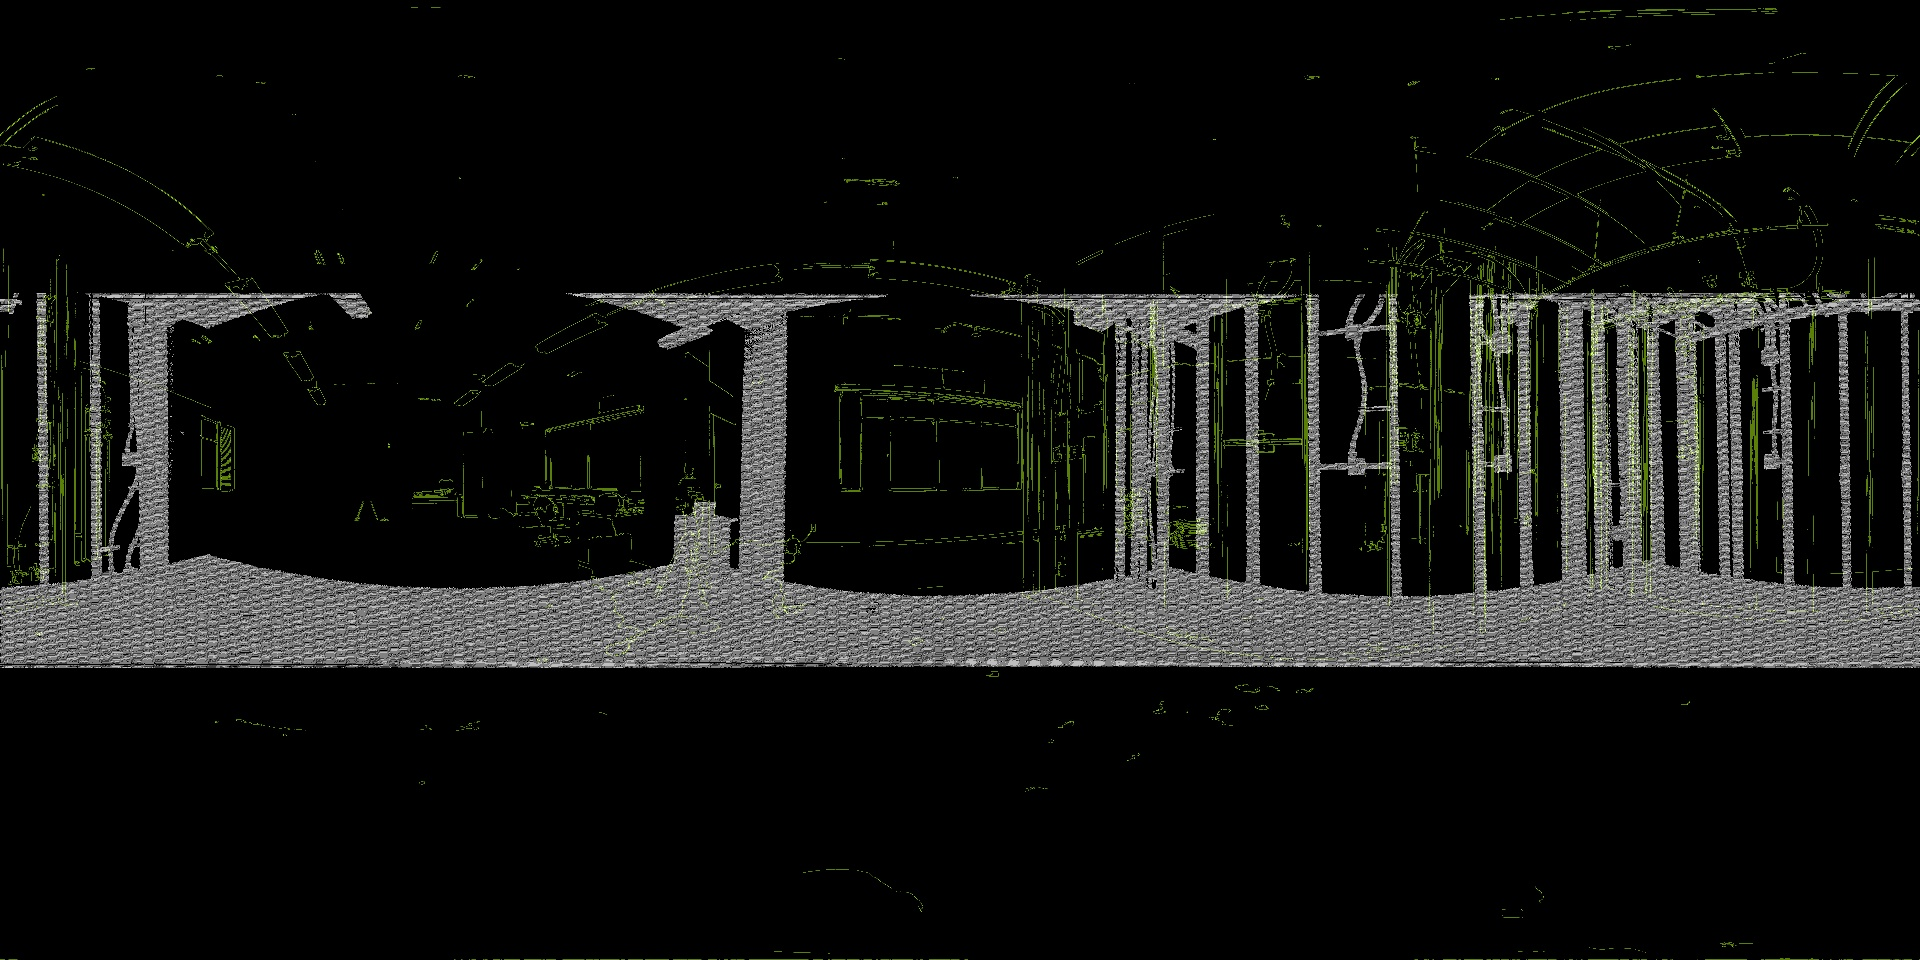
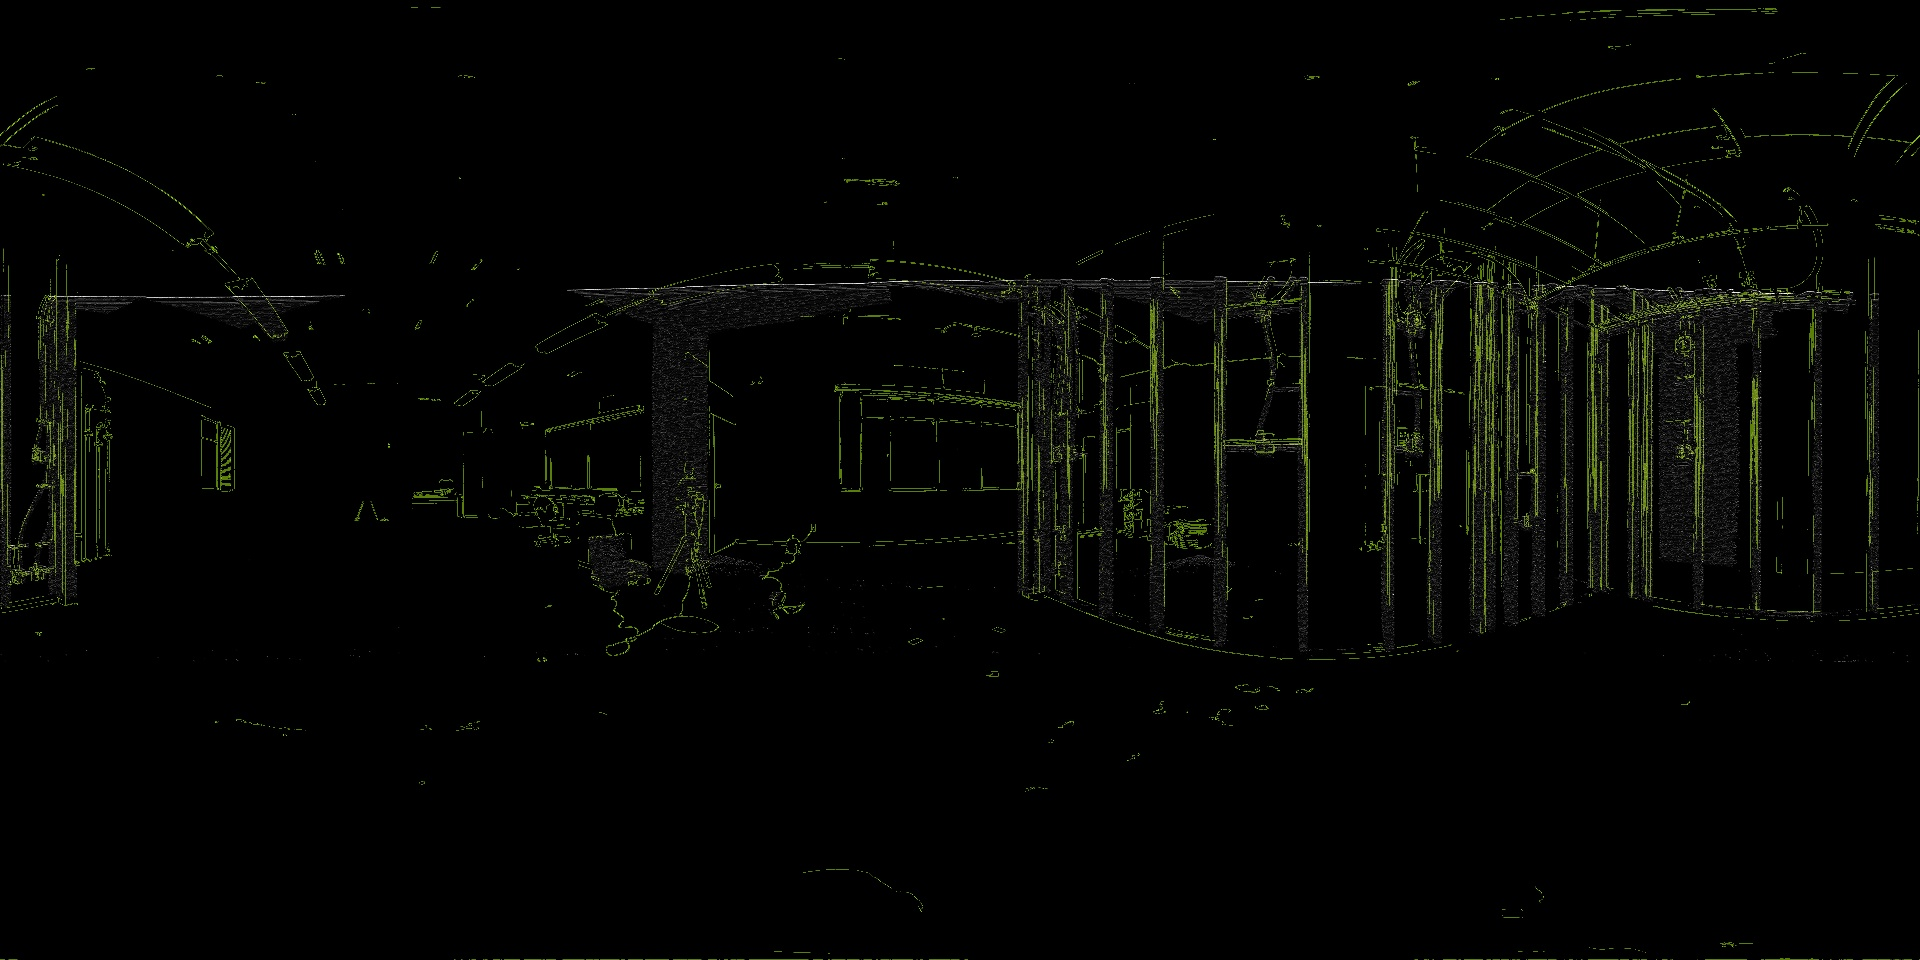
feat:#37 add sobel filter

Changed region(s): [[0.0, 0.2812, 1.0, 0.7188]]

diff --git a/src/operation.cpp b/src/operation.cpp
@@ -833,7 +833,7 @@ double img_projection(PointSet &ply_point, LidarImg &lidar_img, InstaImg &image)
     // std::cout << image.get_width() << "::" << image.get_height() << std::endl;
     // std::cout << ply_point.get_point(0).transpose() << std::endl;
 
-    // 極座標から画像の
+    // 極座標から画像へ投影
     for (auto &point : ply_point.get_point_all_polar())
     {
         // thetaをxy平面からではなく、天頂角の名前のように上からの角度に変えた方がいいのかと思ったけど
@@ -857,12 +857,12 @@ double img_projection(PointSet &ply_point, LidarImg &lidar_img, InstaImg &image)
         lidar_img.set_point_projected(u, v);
     }
 
-    lidar_img.canny_projected();
+    lidar_img.edge_detect_sobel();
 
     cv::Mat show;
     cv::resize(lidar_img.get_mat_edge(), show, cv::Size(), 0.25, 0.25);
-    // cv::imshow("lidar_img", show);
-    // cv::waitKey(0);
+    cv::imshow("lidar_img", show);
+    cv::waitKey(0);
     // 画像を重ね合わせてみる
     image.img_alpha_blending(image.get_mat_edge(), lidar_img.get_mat_edge(), 0.5);
 
@@ -900,6 +900,12 @@ void PointOperation::test_location()
     InstaImg image;
     image.load_img(img_file_path.at(0));
 
+    // 床の点を除去
+    // HACK: 本当はここも平面当てはめ PCAなどでできそうではある。
+    Eigen::Vector3d floor_height = {0, 0, -1.070};
+    PointSet removed_floor_ply_point;
+    remove_pointset_floor(ply_point, removed_floor_ply_point, floor_height);
+
     // ========== ここから img 処理 ==========
     std::cout << "img edge detection" << std::endl;
 
@@ -913,19 +919,18 @@ void PointOperation::test_location()
     PointSet img_projection_unisphere;
     image.convert_to_unitsphere(img_projection_unisphere);
 
-    // うまく行かないので いろいろチェックする状態
-
-    // そのままのplyでの結果
+    // CHECK: そのままのplyでの結果
     LidarImg lidar_img;
-    ply_point.convert_to_polar();
+    removed_floor_ply_point.convert_to_polar();
     lidar_img.set_zero_img_projected(image.get_height(), image.get_width());
-    ply_point.transform(Eigen::Vector3d(0.0, 0.0, 0.06));
-    double eva = img_projection(ply_point, lidar_img, image);
-
+    double eva = img_projection(removed_floor_ply_point, lidar_img, image);
     std::cout << "nochange_eva" << eva << std::endl;
-    // 同じ画像でやってみる。
-    // double mse = image.compute_MSE(image.get_mat_edge(), image.get_mat_edge());
 
+    std::string continue_step = 0;
+    std::cin >> continue_step;
+
+    // CHECK: 同じ画像でやってみる。
+    // double mse = image.compute_MSE(image.get_mat_edge(), image.get_mat_edge());
     // std::cout << "same_imgmse" << mse << std::endl;
     // cv::Mat show;
     // cv::resize(image.get_mat_edge(), show, cv::Size(), 0.25, 0.25);
@@ -934,11 +939,25 @@ void PointOperation::test_location()
 
     // =========== LiDAR 処理 ===========
 
+    std::cout << "RESULT" << std::endl
+              << "transform" << std::endl
+              << best_transform.transpose() << std::endl
+              << "rotate" << std::endl
+              << best_rotate << std::endl
+              << "eva" << eva_img << std::endl;
+}
+
+/*
+ * @brief 対比
+ *
+void lidar_search_all_position()
+{
+
     // translate search
 
     // xyz 探索範囲
     // 0.1 なら ±0.1の範囲を探索
-    // NOTE: 一時的に 0 にして 回転に集中
+    // 一時的に 0 にして 回転に集中
     double x_limit = 0.01;
     double y_limit = 0.01;
     double z_limit = 0.01;
@@ -948,7 +967,7 @@ void PointOperation::test_location()
     double y_split = 0.005;
     double z_split = 0.005;
 
-    ply_point.transform(Eigen::Vector3d(-x_limit, -y_limit, -z_limit));
+    removed_floor_ply_point.transform(Eigen::Vector3d(-x_limit, -y_limit, -z_limit));
     double eva_img = 100000;
     Eigen::Vector3d best_transform = {0, 0, 0};
     Eigen::Matrix3d best_rotate = Eigen::Matrix3d::Identity();
@@ -962,7 +981,7 @@ void PointOperation::test_location()
             {
                 // 並進の適用
                 Eigen::Vector3d transform = {x_split, y_split, z_split};
-                ply_point.transform(transform);
+                removed_floor_ply_point.transform(transform);
 
                 // rotate seartch
                 // z軸回転の実装
@@ -973,8 +992,8 @@ void PointOperation::test_location()
                 for (double angle = 0; angle < 360; angle += angle_split)
                 {
 
-                    ply_point.rotate(rotate_mat);
-                    ply_point.convert_to_polar_overwrite();
+                    removed_floor_ply_point.rotate(rotate_mat);
+                    removed_floor_ply_point.convert_to_polar_overwrite();
 
                     // ここから点群と画像の比較処理
 
@@ -982,7 +1001,7 @@ void PointOperation::test_location()
                     lidar_img.set_zero_img_projected(image.get_height(), image.get_width());
                     std::cout << count++ << ":" << transform.transpose() << std::endl
                               << rotate_mat << std::endl;
-                    double eva_tmp = img_projection(ply_point, lidar_img, image);
+                    double eva_tmp = img_projection(removed_floor_ply_point, lidar_img, image);
                     if (eva_img > eva_tmp)
                     {
                         best_transform = transform;
@@ -993,13 +1012,27 @@ void PointOperation::test_location()
             }
         }
     }
+}
 
-    std::cout << "RESULT" << std::endl
-              << "transform" << std::endl
-              << best_transform.transpose() << std::endl
-              << "rotate" << std::endl
-              << best_rotate << std::endl
-              << "eva" << eva_img << std::endl;
+*/
+
+/**
+ * @brief floor_heightの数値より高い点群を残し、他の点群を除去する. 床点群を除去したくて作成
+ *
+ * @param origin_point
+ * @param floor_height Eigen::Vector3dで指定
+ * @return PointSet&  今回戻り値が参照型なので、 戻り値をそのまま使う場合は、同じ参照で受け取る必要あり。
+ */
+void PointOperation::remove_pointset_floor(PointSet &origin_point, PointSet &out_point, Eigen::Vector3d floor_height)
+{
+
+    for (auto &point : origin_point.get_point_all())
+    {
+        if (point(2) > floor_height(2))
+        {
+            out_point.add_point(point);
+        }
+    }
 }
 
 void PointOperation::test_location_two()

diff --git a/src/img_proc.cpp b/src/img_proc.cpp
@@ -41,19 +41,26 @@ void InstaImg::canny()
     cv::waitKey(0);
 }
 
-void LidarImg::canny_projected()
+void LidarImg::edge_detect_sobel()
 {
-    cv::Mat output, tmp;
-    // cv::Laplacian(img, tmp, CV_32F, 3);
-    // cv::GaussianBlur(img, tmp, cv::Size(3, 3), 3, 3);
+    cv::Mat output, sobel_x, sobel_y, sobel_tmp, tmp;
 
-    cv::Canny(img_projected, tmp, 50, 200, 3, true);
+    // Cannyを使うとなぜだめなのかはメモ参照
+    // cv::Canny(img_projected, tmp, 50, 200, 3, true);
+
+    cv::GaussianBlur(img_projected, sobel_tmp, cv::Size(5, 5), 0, 0, cv::BORDER_DEFAULT);
+    cv::Sobel(sobel_tmp, sobel_x, CV_8U, 1, 1, 3);
+    cv::Sobel(sobel_tmp, sobel_y, CV_8U, 0, 1, 3);
+
+    cv::add(sobel_x, sobel_y, tmp);
+    // tmp = img_projected;
     img_edge = tmp;
 
     cv::convertScaleAbs(tmp, output, 1, 0);
     cv::resize(output, output, cv::Size(), 0.25, 0.25);
 
-    // cv::imshow("canny", output);
+    cv::imshow("lidar_edge", output);
+    cv::imwrite("lidar_edge.jpg", output);
     // cv::waitKey(0);
 }
 
@@ -142,8 +149,8 @@ void InstaImg::img_alpha_blending(const cv::Mat &blend_a, const cv::Mat &blend_b
     cv::resize(output, output, cv::Size(), 0.25, 0.25);
 
     // show
-    // cv::imshow("alpha blending", output);
-    // cv::imwrite("output_image.jpg", output);
+    cv::imshow("alpha blending", output);
+    cv::imwrite("output_image.jpg", output);
     cv::waitKey(0);
 }
 

diff --git a/src/img_proc.hpp b/src/img_proc.hpp
@@ -56,7 +56,7 @@ public:
     ~LidarImg() {}
     void show() { cv::imshow(name, img_projected); }
     cv::Mat get_mat_projected() { return img_projected; };
-    void canny_projected();
+    void edge_detect_sobel();
 
     // REVIEW: バイトサイズがCV_8UC1でいいかどうかあとでチェック
     void set_zero_img_projected(double _height, double _width) { img_projected = cv::Mat::zeros(static_cast<int>(_height), static_cast<int>(_width), CV_8UC1); }

diff --git a/src/operation.hpp b/src/operation.hpp
@@ -82,6 +82,9 @@ public:
     void test_location();
     void test_location_two();
 
+    // mode切り替えしない関数
+    void remove_pointset_floor(PointSet &, PointSet &, Eigen::Vector3d);
+
     // FIXME: 後でちゃんと関数化しよう
     void projection_to_sphere();
     // switch文回避のための map

diff --git a/src/pointset.hpp b/src/pointset.hpp
@@ -76,6 +76,8 @@ public:
     std::vector<Eigen::Vector3d> get_point_all_polar() { return point3_polar; }
     std::vector<std::array<int, 2>> get_edge_all() { return edge2; }
 
+    // remove
+
     // calc
     void convert_to_polar();
     void convert_to_polar_overwrite();
